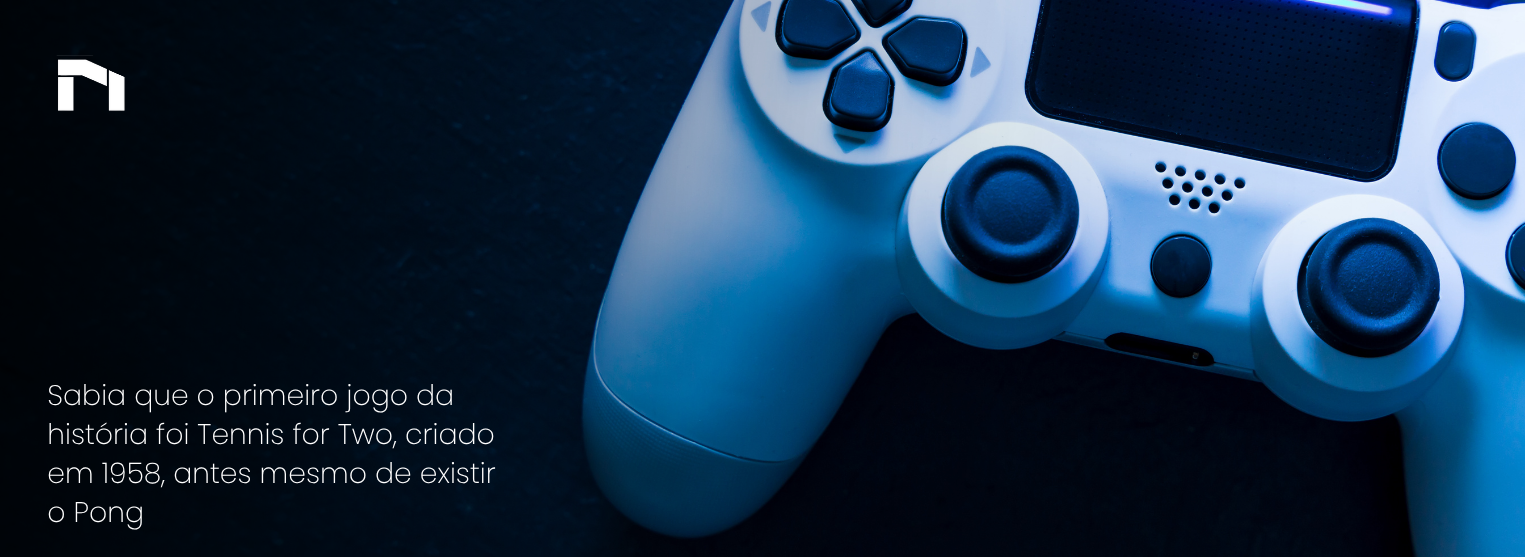
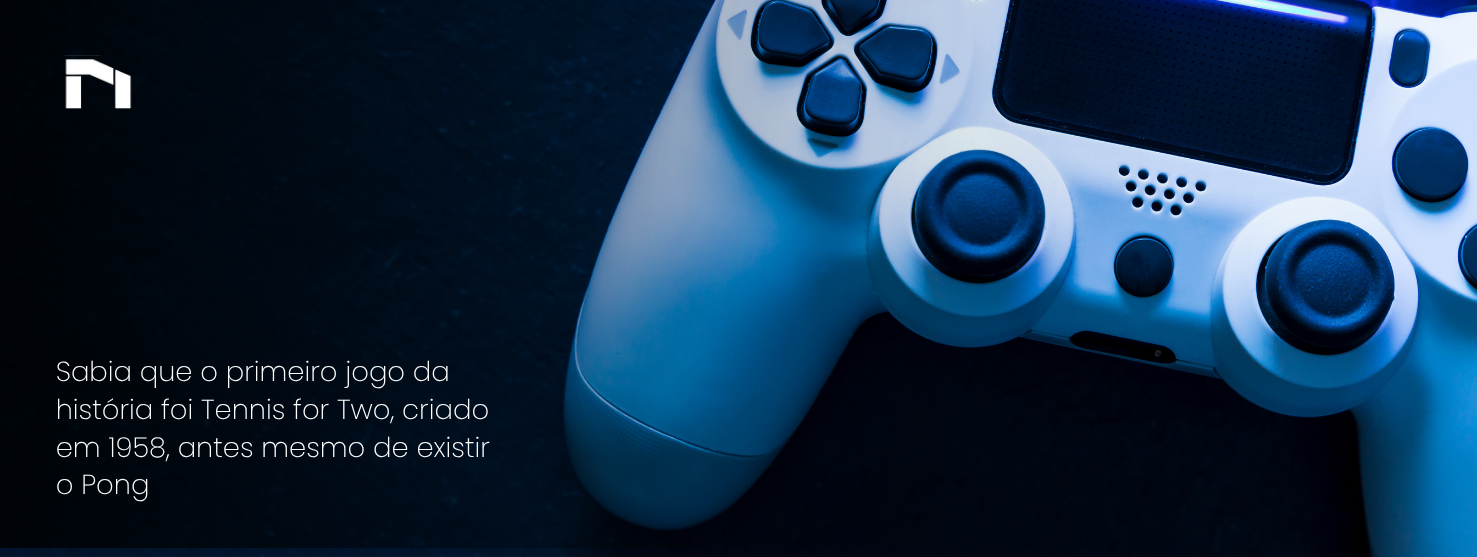
chore(images): adiciona upload de imagem para background de login e cadastro

diff --git a/resources/views/components/banner.blade.php b/resources/views/components/banner.blade.php
@@ -1,39 +1,37 @@
-<div class="relative w-[1525px] mx-auto h-[557px] overflow-hidden  ">
+<div class="relative w-[1477px] mx-auto h-[572px] overflow-hidden  ">
     <!-- Slides -->
     <div class="absolute inset-0 transition-opacity duration-1000 opacity-100" id="slide1">
-        <img src="{{ asset('assets/images/10.png') }}" class="w-full h-full object-cover" alt="Banner 1">
+        <img src="{{ asset('assets/images/4.png') }}" class="w-full h-full object-cover" alt="Banner 1">
     </div>
 
     <div class="absolute inset-0 transition-opacity duration-1000 opacity-0" id="slide2">
-        <img src="{{ asset('assets/images/11.png') }}" class="w-full h-full object-cover" alt="Banner 2">
+        <img src="{{ asset('assets/images/5.png') }}" class="w-full h-full object-cover" alt="Banner 2">
     </div>
 
     <div class="absolute inset-0 transition-opacity duration-1000 opacity-0" id="slide3">
-        <img src="{{ asset('assets/images/12.png') }}" class="w-full h-full object-cover" alt="Banner 3">
+        <img src="{{ asset('assets/images/6.png') }}" class="w-full h-full object-cover" alt="Banner 3">
     </div>
 
     <div class="absolute inset-0 transition-opacity duration-1000 opacity-0" id="slide4">
-        <img src="{{ asset('assets/images/13.png') }}" class="w-full h-full object-cover" alt="Banner 4">
+        <img src="{{ asset('assets/images/7.png') }}" class="w-full h-full object-cover" alt="Banner 4">
     </div>
 
     <div class="absolute inset-0 transition-opacity duration-1000 opacity-0" id="slide5">
-        <img src="{{ asset('assets/images/14.png') }}" class="w-full h-full object-cover" alt="Banner 5">
+        <img src="{{ asset('assets/images/8.png') }}" class="w-full h-full object-cover" alt="Banner 5">
     </div>
 
     <div class="absolute inset-0 transition-opacity duration-1000 opacity-0" id="slide6">
-        <img src="{{ asset('assets/images/15.png') }}" class="w-full h-full object-cover" alt="Banner 6">
+        <img src="{{ asset('assets/images/9.png') }}" class="w-full h-full object-cover" alt="Banner 6">
     </div>
 
     <div class="absolute inset-0 transition-opacity duration-1000 opacity-0" id="slide7">
-        <img src="{{ asset('assets/images/16.png') }}" class="w-full h-full object-cover" alt="Banner 7">
-    </div>
-
-    <div class="absolute inset-0 transition-opacity duration-1000 opacity-0" id="slide8">
-        <img src="{{ asset('assets/images/17.png') }}" class="w-full h-full object-cover" alt="Banner 8">
+        <img src="{{ asset('assets/images/10.png') }}" class="w-full h-full object-cover" alt="Banner 7">
     </div>
 
 
-    <!-- Indicadores -->
+
+
+
     <div class="absolute bottom-4 left-1/2 transform -translate-x-1/2 flex space-x-2">
         <div class="w-3 h-3 bg-white rounded-full opacity-70" id="dot1"></div>
         <div class="w-3 h-3 bg-white rounded-full opacity-40" id="dot2"></div>
@@ -42,7 +40,6 @@
         <div class="w-3 h-3 bg-white rounded-full opacity-40" id="dot5"></div>
         <div class="w-3 h-3 bg-white rounded-full opacity-40" id="dot6"></div>
         <div class="w-3 h-3 bg-white rounded-full opacity-40" id="dot7"></div>
-        <div class="w-3 h-3 bg-white rounded-full opacity-40" id="dot8"></div>
     </div>
 </div>
 
@@ -55,8 +52,7 @@ document.addEventListener('DOMContentLoaded', function () {
         document.getElementById('slide4'),
         document.getElementById('slide5'),
         document.getElementById('slide6'),
-        document.getElementById('slide7'),
-        document.getElementById('slide8')
+        document.getElementById('slide7')
     ];
     let dots = [
         document.getElementById('dot1'),
@@ -65,8 +61,8 @@ document.addEventListener('DOMContentLoaded', function () {
         document.getElementById('dot4'),
         document.getElementById('dot5'),
         document.getElementById('dot6'),
-        document.getElementById('dot7'),
-        document.getElementById('dot8')
+        document.getElementById('dot7')
+
     ];
 
     let current = 0;

diff --git a/resources/views/dashboard.blade.php b/resources/views/dashboard.blade.php
@@ -12,7 +12,7 @@
         <link rel="manifest" href="{{ asset('assets/favicons/site.webmanifest') }}" />
         <title>Nitros</title>
     </head>
-    <body class="m-o p-0 box-border" >
+    <body class="  m-o p-0 box-border" >
     <x-app-layout>
         <x-slot name="header">
             <h2 class="font-semibold text-xl ml-10 text-gray-800 leading-tight">
@@ -21,7 +21,12 @@
         </x-slot>
          @vite(['resources/css/app.css', 'resources/js/app.js'])
         <x-banner/>
-        <div class="h-160">
+        <div class="  bg-gray-950 h-64">
+        </div>
+        <div class=" flex h-160" >
+
+        
+
 
         </div>
     </x-app-layout>
